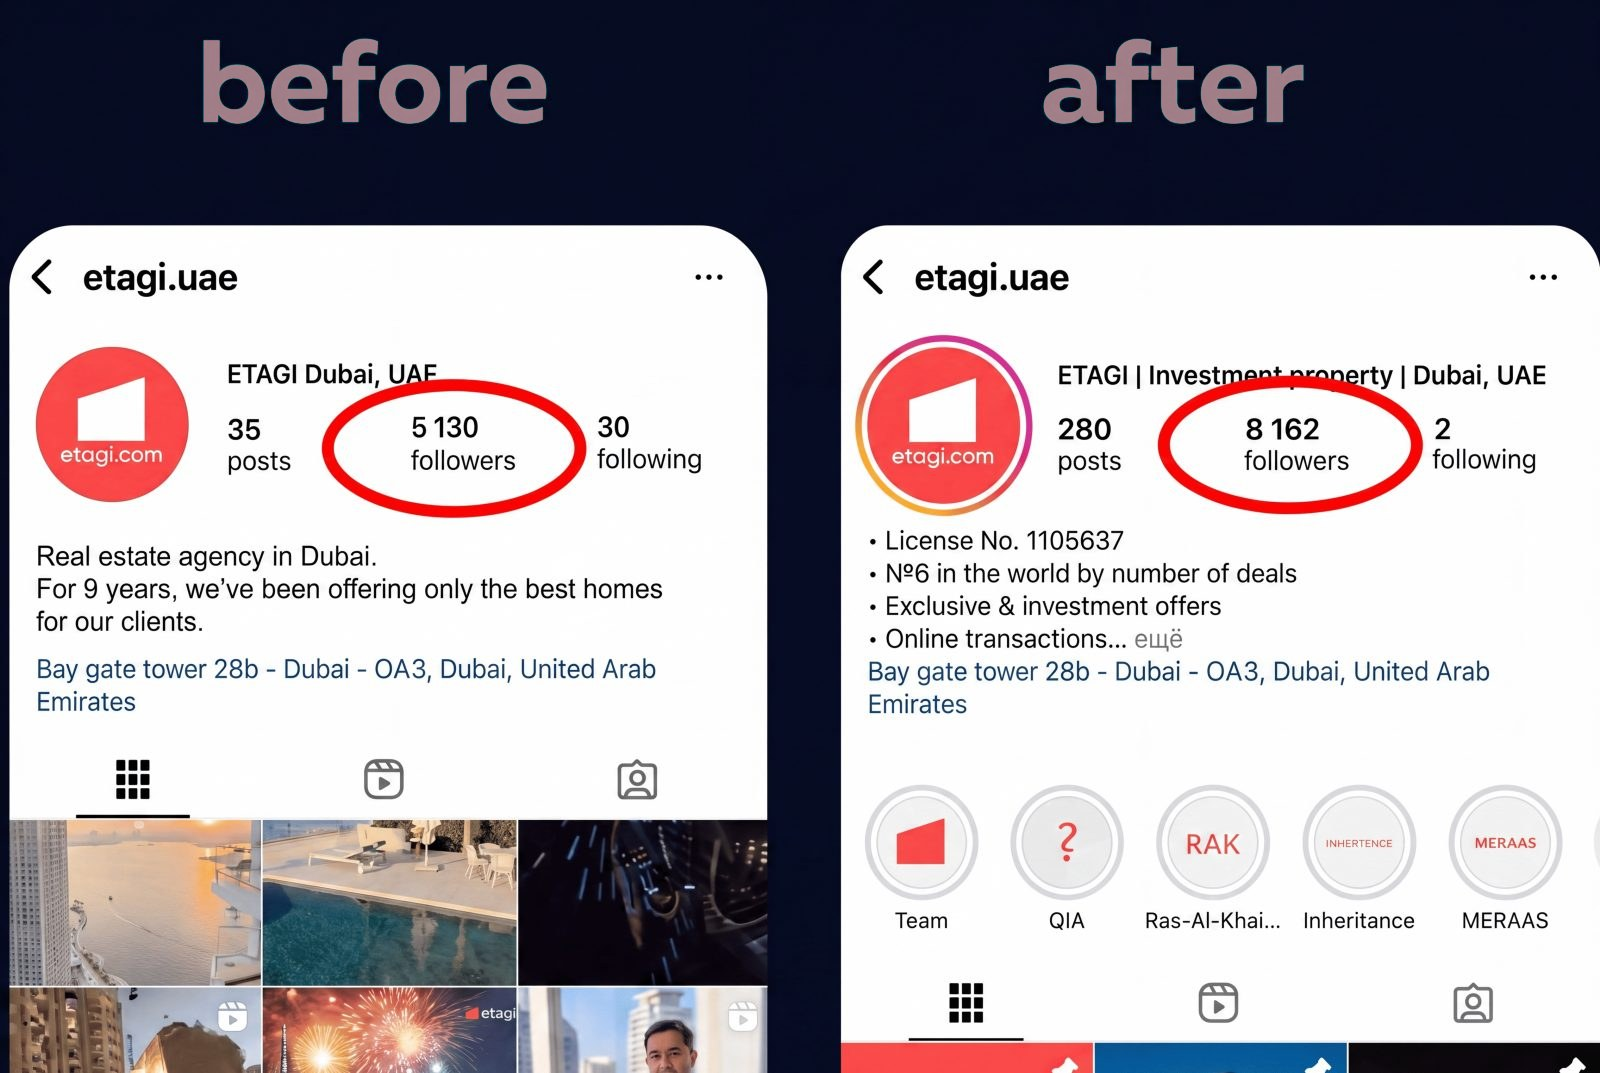
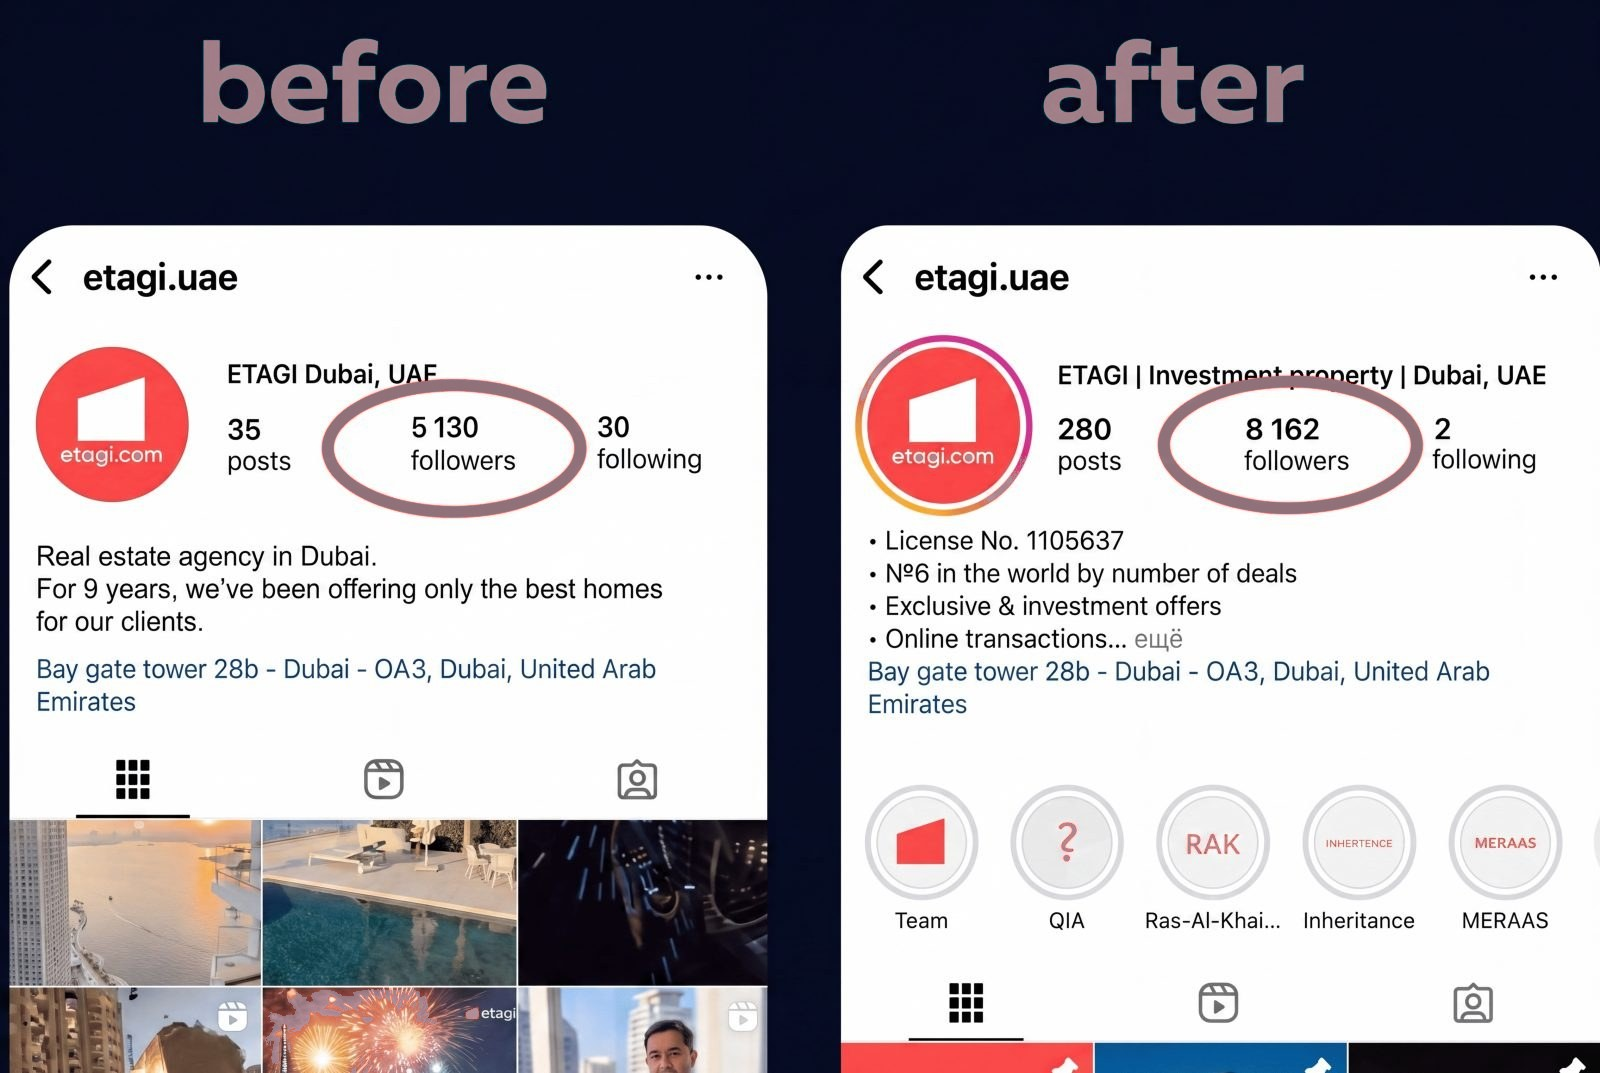
Recolor marker rings to rose in Etagi and Reels collage; drop RUB from currency switcher
Ring-vs-solid separation keeps the red Etagi brand logo and IG content
untouched; Reels collage recolored only inside the two circle zones so
faces and flowers stay natural. Pricing now offers AED and USD only
(RUB data kept in site.json for the admin, just not shown).

diff --git a/index.html b/index.html
@@ -266,7 +266,7 @@
     <h2 data-i18n="pr.h2">Three ways to work together.</h2>
     <p class="lede" data-i18n="pr.lede">Monthly, no long lock-in. Ad budget is paid separately, directly to the platform.</p>
     <div class="seg cur" id="curSeg" role="group" aria-label="Currency">
-      <button type="button" data-cur="AED" class="on">AED</button><button type="button" data-cur="USD">USD</button><button type="button" data-cur="RUB">₽</button>
+      <button type="button" data-cur="AED" class="on">AED</button><button type="button" data-cur="USD">USD</button>
     </div>
     <div class="plans">
       <article class="plan rise">
